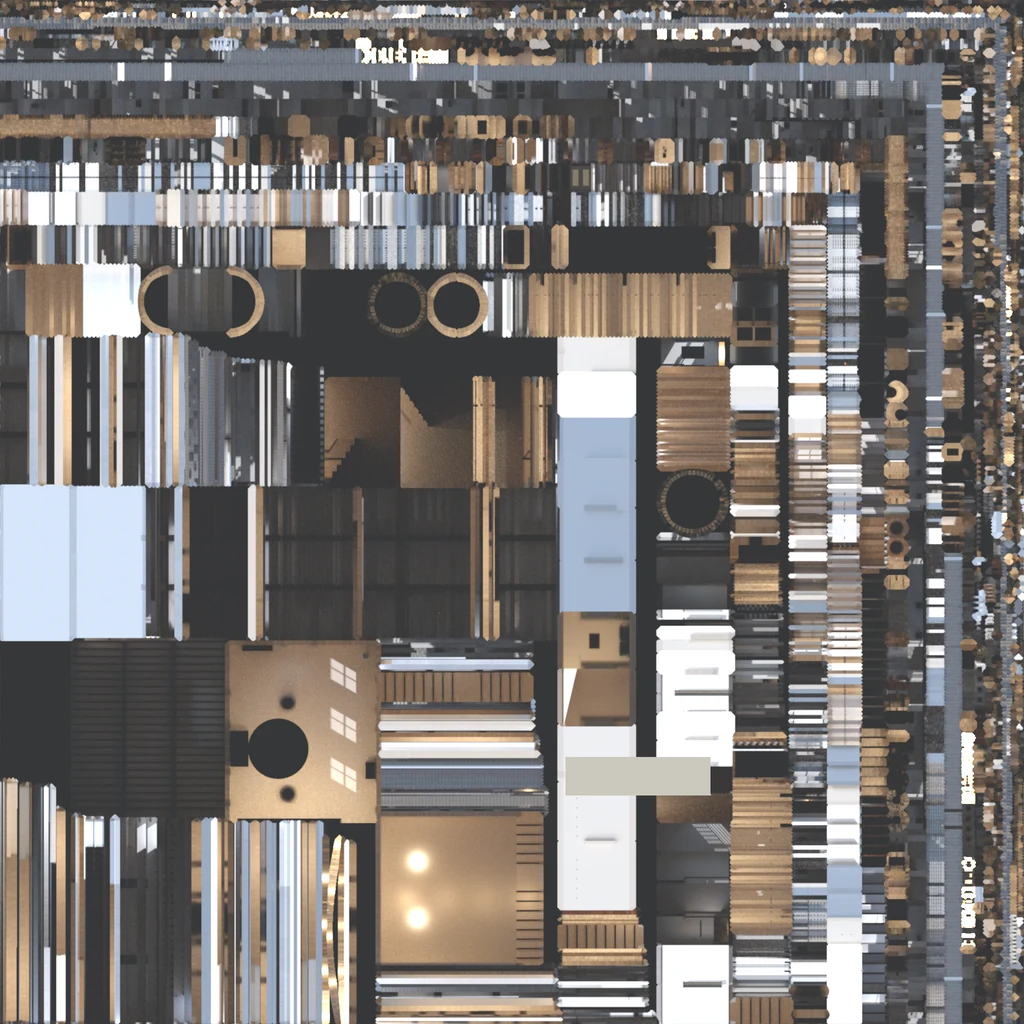
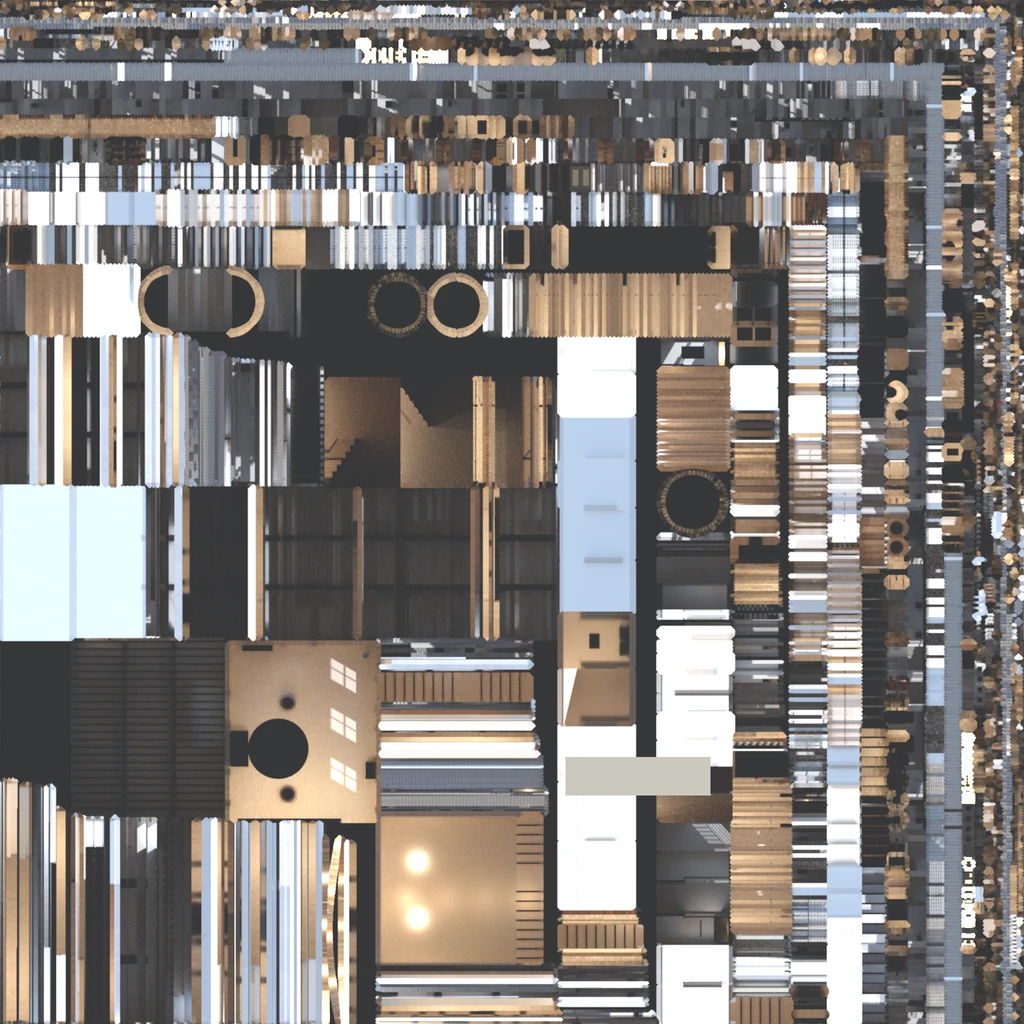
fix: 8번 집 대청마루 낮 라이트맵 밝게(하늘·해 세기↑, 등 켬)·한지 창이 낮밤에 반응(라이트맵에 칠함)·밤 등불 세기↑, 시트 갱신
창호는 띠살+완자 격자·두 짝 문살, 통로·좌석 앞 1.3m 점검 통과, gen-house-seats PASS.

diff --git a/docs/designs/houses-interior/tools/render_house.py b/docs/designs/houses-interior/tools/render_house.py
@@ -117,6 +117,12 @@ def main():
             nt.links.new(tr.outputs[0], mx.inputs[1])
             nt.links.new(src.outputs[0], mx.inputs[2])
             nt.links.new(mx.outputs[0], mout.inputs["Surface"])
+            if night and m.name == "H_hanji":            # lit paper at night: the lanterns glow through it (the bake paints the same into the light map)
+                mx.inputs["Fac"].default_value = 1.0
+                for nd in nt.nodes:
+                    if nd.type == "BSDF_PRINCIPLED":
+                        nd.inputs["Emission Color"].default_value = (0.95, 0.78, 0.5, 1.0)
+                        nd.inputs["Emission Strength"].default_value = 1.2
     for o in bpy.data.objects:
         if o.name.startswith((K.COL_PREFIX, "ceil__")) or o.get("cat") == "view":
             o.hide_render = True

diff --git a/docs/designs/houses-interior/tools/bake_house_hb.py b/docs/designs/houses-interior/tools/bake_house_hb.py
@@ -459,6 +459,7 @@ def main():
     hb_mats.use_wallpaper(n)
     DAY["sky"] = arg("--sky", DAY["sky"], float)
     DAY["lamp_scale"] = arg("--lampday", DAY["lamp_scale"], float)
+    NIGHT["lamp_scale"] = arg("--lampnight", NIGHT["lamp_scale"], float)
     e_, a_, z_ = DAY["sun"]
     DAY["sun"] = (arg("--sun", e_, float), a_, z_)
     out_dir = os.path.abspath(arg("--out", EXPORT))
